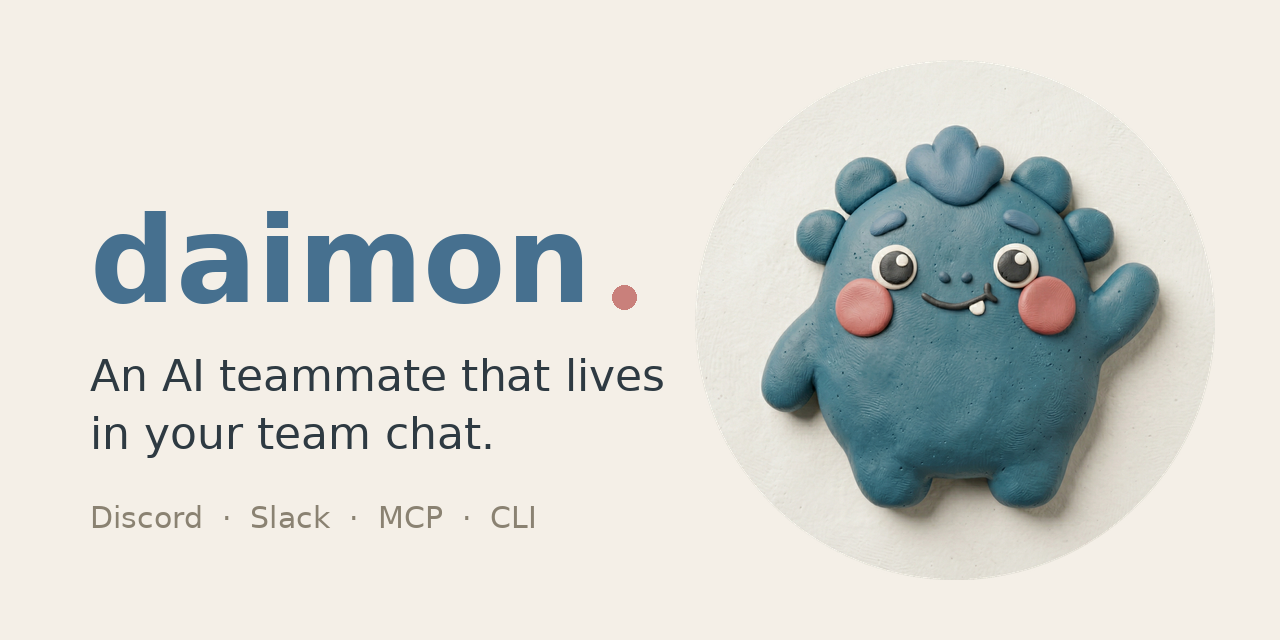
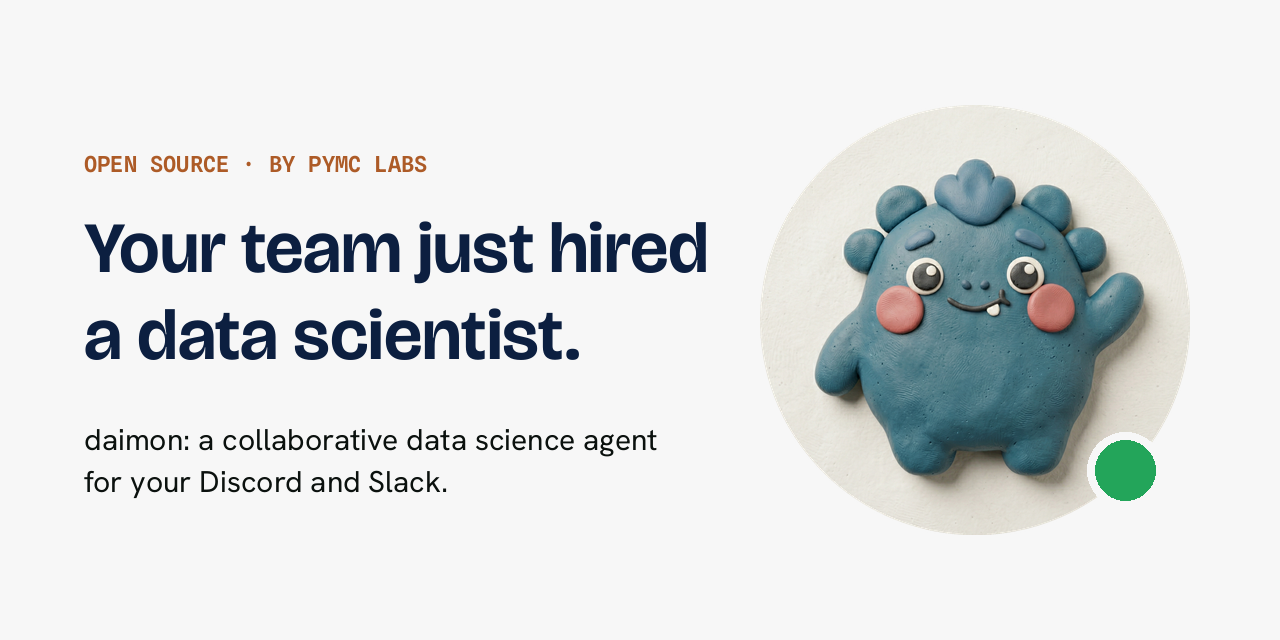
docs: adopt daimon.decision.ai look and voice
Hero now uses the site's positioning ('Your team just hired a data
scientist.', collaborative DS agent subhead) and links the one-click
hosted install. Section headers take the site's voice ('It's yours.
And it's open.', 'It doesn't chat. It does the work.'). Social preview
rebuilt in the site's design system: Bricolage Grotesque navy headline,
Spline Sans Mono orange eyebrow, Hanken Grotesk body on #F7F7F7, avatar
status dot.

diff --git a/README.md b/README.md
@@ -3,34 +3,39 @@
 
 # daimon
 
-**An AI teammate that lives in your team chat.**
+**Your team just hired a data scientist.**
 
-Open-source agent platform built on [Anthropic Managed Agents](https://platform.claude.com/docs/en/managed-agents/quickstart),
-with Discord, Slack, MCP, and CLI adapters.
+daimon is a collaborative data science agent in your team's Discord or Slack.
+It writes and runs code, fits Bayesian models with PyMC, and delivers charts
+and runnable notebooks in the thread.
 
 [![CI](https://github.com/pymc-labs/daimon/actions/workflows/ci.yml/badge.svg)](https://github.com/pymc-labs/daimon/actions/workflows/ci.yml)
 [![License: MIT](https://img.shields.io/badge/License-MIT-yellow.svg)](LICENSE)
 [![Python 3.12+](https://img.shields.io/badge/python-3.12+-blue.svg)](pyproject.toml)
 
+**[Add it to your server in one click →](https://daimon.decision.ai/)**
+or self-host it from this repo.
+
 </div>
+
+## It's yours. And it's open.
 
 Most chat bots are one agent shared across a workspace. daimon is
 many-to-many: you deploy it once, on your own Anthropic API key, and any
-number of Discord servers install it from that single deployment. Each
-server is an isolated tenant, so guilds never see each other's data even
-though they share your key. Once the deployment is running, adding a server
-takes about two minutes: invite the bot, run `/agent-setup`, and everyone in
-it can `@mention` a working agent.
+number of Discord servers install it from that single deployment. Every
+server is isolated: one tenant, its own data, scoped to that server. Adding
+a server takes about two minutes: invite the bot, run `/agent-setup`, and
+everyone in it can `@mention` a working agent.
 
-The key must belong to an Anthropic workspace dedicated to that daimon
-deployment. daimon manages the workspace's Managed Agents resources as its
-own, so sharing the workspace with anything else will cause collisions.
+Built on [Anthropic Managed Agents](https://platform.claude.com/docs/en/managed-agents/quickstart)
+by [PyMC Labs](https://www.pymc-labs.com), the team behind the PyMC project.
 
 > **Status:** early. The code is public and you can run it yourself (see
 > below), but self-hosting is not a supported path yet. Expect rough edges
-> and breaking changes.
+> and breaking changes. The hosted version at
+> [daimon.decision.ai](https://daimon.decision.ai/) is the easy path.
 
-## Features
+## It doesn't chat. It does the work.
 
 - `@daimon` in a channel starts (or continues) a threaded conversation with
   session continuity
@@ -96,7 +101,9 @@ deltas into the thread until the session goes idle.
 
 Unsupported, but it works. You need an Anthropic API key **with Managed
 Agents beta access** (a closed beta: request access first, or session
-creation will fail) **in a workspace dedicated to this deployment**,
+creation will fail) **in a workspace dedicated to this deployment** (daimon
+manages the workspace's Managed Agents resources as its own, so sharing the
+workspace with anything else causes collisions),
 [Docker](https://docs.docker.com/get-docker/), and
 [`uv`](https://docs.astral.sh/uv/).
 